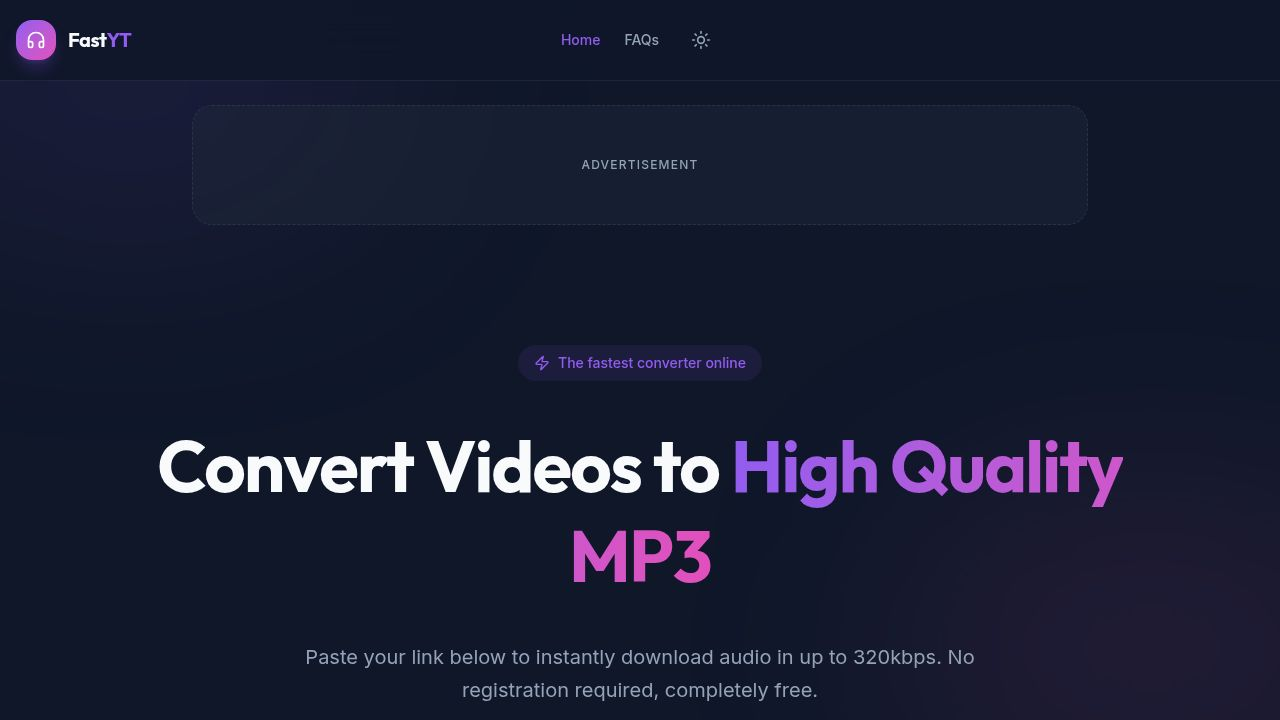
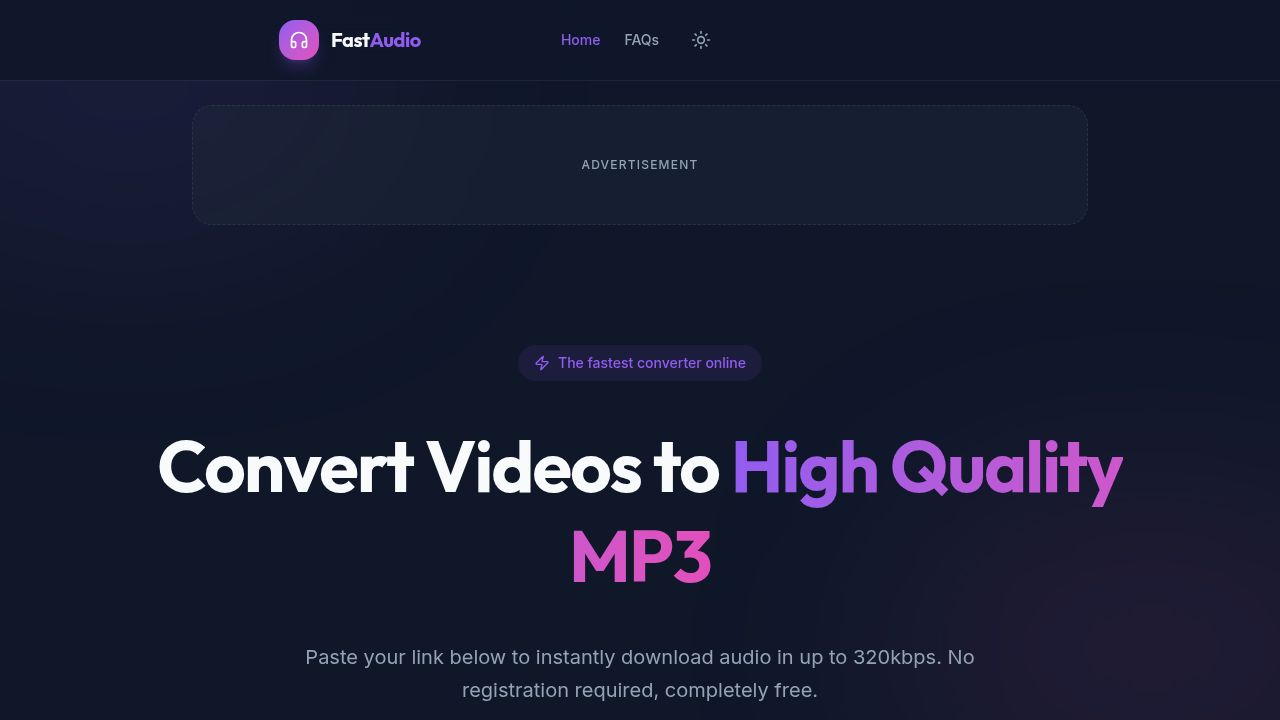
Update website branding and content to reflect the new audio focus
Replaces all instances of "FastYT" with "FastAudio" across UI elements, page titles, meta descriptions, keywords, and article content to align with the new branding and service focus.

Replit-Commit-Author: Agent
Replit-Commit-Session-Id: 02a84560-6882-444d-8c85-bd9621cf1c08
Replit-Commit-Checkpoint-Type: full_checkpoint
Replit-Commit-Event-Id: 32cc1984-b7d3-4cb3-a907-91f8530e6ba8
Replit-Commit-Screenshot-Url: https://storage.googleapis.com/screenshot-production-us-central1/3bdd60ed-d1cf-41c7-81cc-fcb551e5fe91/02a84560-6882-444d-8c85-bd9621cf1c08/msJ4D0S
Replit-Helium-Checkpoint-Created: true

Changed region(s): [[0.2188, 0.0306, 0.3438, 0.0917], [0.0, 0.0306, 0.125, 0.0917]]

diff --git a/artifacts/yt-mp3/src/pages/terms.tsx b/artifacts/yt-mp3/src/pages/terms.tsx
@@ -3,14 +3,14 @@ import { Layout } from "@/components/layout";
 
 export default function Terms() {
   useEffect(() => {
-    document.title = "Terms of Service - FastYT Converter";
+    document.title = "Terms of Service - FastAudio Converter";
     const setMeta = (name: string, content: string, prop = false) => {
       const attr = prop ? "property" : "name";
       let el = document.querySelector(`meta[${attr}="${name}"]`);
       if (!el) { el = document.createElement("meta"); el.setAttribute(attr, name); document.head.appendChild(el); }
       el.setAttribute("content", content);
     };
-    setMeta("description", "FastYT Converter Terms of Service. Understand the rules, copyright policy, and acceptable use of our media conversion tool.");
+    setMeta("description", "FastAudio Converter Terms of Service. Understand the rules, copyright policy, and acceptable use of our media conversion tool.");
     setMeta("keywords", "terms of service, terms and conditions, legal terms, user agreement");
     let canonical = document.querySelector('link[rel="canonical"]');
     if (!canonical) { canonical = document.createElement("link"); canonical.setAttribute("rel", "canonical"); document.head.appendChild(canonical); }
@@ -26,17 +26,17 @@ export default function Terms() {
 
         <h3>1. Acceptance of Terms</h3>
         <p>
-          By accessing and using FastYT, you accept and agree to be bound by the terms and provision of this agreement. If you do not agree to abide by these terms, please do not use this service.
+          By accessing and using FastAudio, you accept and agree to be bound by the terms and provision of this agreement. If you do not agree to abide by these terms, please do not use this service.
         </p>
 
         <h3>2. Description of Service</h3>
         <p>
-          FastYT provides a web-based utility that allows users to convert publicly available YouTube videos into downloadable MP3 audio files. The service is provided "AS IS" and "AS AVAILABLE" for personal, non-commercial use only.
+          FastAudio provides a web-based utility that allows users to convert publicly available videos into downloadable MP3 audio files. The service is provided "AS IS" and "AS AVAILABLE" for personal, non-commercial use only.
         </p>
 
         <h3>3. Copyright and Acceptable Use</h3>
         <p>
-          FastYT respects the intellectual property rights of others. You agree to use the service <strong>only for content that you own, or for which you have explicit permission from the copyright owner to download and convert.</strong>
+          FastAudio respects the intellectual property rights of others. You agree to use the service <strong>only for content that you own, or for which you have explicit permission from the copyright owner to download and convert.</strong>
         </p>
         <p>
           You agree NOT to use the service to download copyrighted material without permission. We do not host, store, or distribute any copyrighted material. The tool simply acts as a conduit to extract audio from URLs provided by the user. If you are a copyright owner and believe your content is being misused, please note that we do not host the files, but you may contact us to block specific URLs from being processed.

diff --git a/artifacts/yt-mp3/src/components/layout.tsx b/artifacts/yt-mp3/src/components/layout.tsx
@@ -59,12 +59,12 @@ export function Layout({ children }: LayoutProps) {
       </div>
       <header className="sticky top-0 z-50 w-full border-b border-border/40 bg-background/80 backdrop-blur-xl" role="banner">
         <div className="container mx-auto px-4 h-20 flex items-center justify-center relative">
-          <Link href="/" className="absolute left-14 flex items-center gap-3 group mt-[0px] pl-[22px] pr-[22px] border-t-[0px] border-r-[0px] border-b-[0px] border-l-[0px] rounded-tl-[0px] rounded-tr-[0px] rounded-br-[0px] rounded-bl-[0px] text-[45px] ml-[201px] mr-[201px] mb-[0px] pt-[5px] pb-[5px] bg-[transparent] font-bold" aria-label="FastYT - Convert Videos to MP3">
+          <Link href="/" className="absolute left-14 flex items-center gap-3 group mt-[0px] pl-[22px] pr-[22px] border-t-[0px] border-r-[0px] border-b-[0px] border-l-[0px] rounded-tl-[0px] rounded-tr-[0px] rounded-br-[0px] rounded-bl-[0px] text-[45px] ml-[201px] mr-[201px] mb-[0px] pt-[5px] pb-[5px] bg-[transparent] font-bold" aria-label="FastAudio - Convert Videos to MP3">
             <div className="w-10 h-10 rounded-xl bg-gradient-to-br from-primary to-accent flex items-center justify-center text-white shadow-lg shadow-primary/25 group-hover:scale-110 transition-transform">
               <Headphones className="w-5 h-5" aria-hidden="true" />
             </div>
             <span className="font-display font-bold text-xl tracking-tight hidden sm:block">
-              Fast<span className="text-primary">YT</span>
+              Fast<span className="text-primary">Audio</span>
             </span>
           </Link>
 
@@ -118,10 +118,10 @@ export function Layout({ children }: LayoutProps) {
             <div className="col-span-1 md:col-span-2">
               <Link href="/" className="flex items-center gap-2 mb-4">
                 <Headphones className="w-6 h-6 text-primary" />
-                <span className="font-display font-bold text-lg">FastYT</span>
+                <span className="font-display font-bold text-lg">FastAudio</span>
               </Link>
               <p className="text-muted-foreground max-w-sm mb-6">
-                The fastest, most reliable online media converter on the web. High quality audio downloads in seconds, completely free.
+                The fastest, most reliable online audio converter on the web. High quality audio downloads in seconds, completely free.
               </p>
               <div className="flex gap-4">
                 <div className="flex items-center gap-2 text-sm text-muted-foreground">
@@ -203,7 +203,7 @@ export function Layout({ children }: LayoutProps) {
 
           <div className="pt-8 border-t border-border/50 flex flex-col md:flex-row justify-between items-center gap-4">
             <p className="text-sm text-muted-foreground">
-              © {new Date().getFullYear()} FastYT Media Converter. All rights reserved.
+              © {new Date().getFullYear()} FastAudio Media Converter. All rights reserved.
             </p>
             <p className="text-xs text-muted-foreground/60 max-w-xl text-center md:text-right">
               This tool is for personal use only. Users must ensure they have rights to download content.

diff --git a/artifacts/yt-mp3/src/pages/faqs.tsx b/artifacts/yt-mp3/src/pages/faqs.tsx
@@ -3,14 +3,14 @@ import { Layout } from "@/components/layout";
 
 export default function FAQs() {
   useEffect(() => {
-    document.title = "FAQs - FastYT Media Converter";
+    document.title = "FAQs - FastAudio Media Converter";
     const setMeta = (name: string, content: string, prop = false) => {
       const attr = prop ? "property" : "name";
       let el = document.querySelector(`meta[${attr}="${name}"]`);
       if (!el) { el = document.createElement("meta"); el.setAttribute(attr, name); document.head.appendChild(el); }
       el.setAttribute("content", content);
     };
-    setMeta("description", "Frequently asked questions about FastYT Media Converter. Get answers to common questions about converting videos to MP3.");
+    setMeta("description", "Frequently asked questions about FastAudio Media Converter. Get answers to common questions about converting videos to MP3.");
     setMeta("keywords", "faqs, faq, frequently asked questions, video converter, mp3 conversion");
     let canonical = document.querySelector('link[rel="canonical"]');
     if (!canonical) { canonical = document.createElement("link"); canonical.setAttribute("rel", "canonical"); document.head.appendChild(canonical); }
@@ -23,12 +23,12 @@ export default function FAQs() {
       a: "Simply paste the video URL into the converter, select your preferred audio quality (128kbps, 192kbps, or 320kbps), and click 'Convert Video'. Your MP3 will be ready to download within seconds."
     },
     {
-      q: "Is FastYT converter free?",
-      a: "Yes! FastYT Media Converter is completely free to use. No registration, no hidden fees, no annoying ads. Just convert your videos to MP3 instantly."
+      q: "Is FastAudio converter free?",
+      a: "Yes! FastAudio Media Converter is completely free to use. No registration, no hidden fees, no annoying ads. Just convert your videos to MP3 instantly."
     },
     {
       q: "What video formats are supported?",
-      a: "We support YouTube links and most popular video platforms. Simply paste the video URL and our tool will automatically detect and convert it to high-quality MP3."
+      a: "We support most popular video platforms. Simply paste the video URL and our tool will automatically detect and convert it to high-quality MP3."
     },
     {
       q: "Do you store my files?",
@@ -44,7 +44,7 @@ export default function FAQs() {
     },
     {
       q: "Can I convert videos from other platforms?",
-      a: "Yes! While we specialize in YouTube, we support most major video platforms including Vimeo, TikTok, Instagram, and more."
+      a: "Yes! We support most major video platforms including Vimeo, TikTok, Instagram, and more."
     },
     {
       q: "Is my download secure?",
@@ -58,7 +58,7 @@ export default function FAQs() {
         <h1 className="text-4xl font-display font-bold mb-8">Frequently Asked Questions</h1>
 
         <p className="text-muted-foreground mb-12">
-          Have questions about FastYT Media Converter? Find answers to the most common questions below.
+          Have questions about FastAudio Media Converter? Find answers to the most common questions below.
         </p>
 
         <div className="space-y-6">

diff --git a/artifacts/yt-mp3/src/pages/articles/mobile-convert.tsx b/artifacts/yt-mp3/src/pages/articles/mobile-convert.tsx
@@ -4,7 +4,7 @@ import { Layout } from "@/components/layout";
 
 export default function MobileConvert() {
   useEffect(() => {
-    document.title = "How to Convert Video to MP3 on Mobile - FastYT Media Converter";
+    document.title = "How to Convert Video to MP3 on Mobile - FastAudio Media Converter";
     const setMeta = (name: string, content: string, prop = false) => {
       const attr = prop ? "property" : "name";
       let el = document.querySelector(`meta[${attr}="${name}"]`);
@@ -29,7 +29,7 @@ export default function MobileConvert() {
         "headline": "How to Convert Video to MP3 on Mobile",
         "description": "Convert video to MP3 on your phone. Easy guide for iOS and Android users to extract audio from videos.",
         "url": "https://fastyt.io/mobile-convert",
-        "author": {"@type": "Organization", "name": "FastYT"},
+        "author": {"@type": "Organization", "name": "FastAudio"},
         "datePublished": "2026-03-23",
         "keywords": "mobile conversion, convert on phone, iphone, android"
       });
@@ -58,7 +58,7 @@ export default function MobileConvert() {
         <ol>
           <li>Open the <strong>Safari browser</strong> on your iPhone or iPad.</li>
           <li>Navigate to the video you want to convert and <strong>copy the URL</strong> from the address bar.</li>
-          <li>Open <strong>FastYT Media Converter</strong> in a new tab.</li>
+          <li>Open <strong>FastAudio Media Converter</strong> in a new tab.</li>
           <li><strong>Paste the URL</strong> into the input box and tap "Start".</li>
           <li>Select your <strong>audio quality</strong> and tap "Convert Video".</li>
           <li>Once conversion is complete, tap <strong>"Download MP3"</strong>. The file will be saved to your Files app or Downloads folder.</li>
@@ -68,7 +68,7 @@ export default function MobileConvert() {
         <ol>
           <li>Open <strong>Chrome</strong> (or your preferred browser) on your Android device.</li>
           <li>Find the video you want to convert and <strong>copy its URL</strong>.</li>
-          <li>Go to <strong>FastYT Media Converter</strong> in your browser.</li>
+          <li>Go to <strong>FastAudio Media Converter</strong> in your browser.</li>
           <li><strong>Paste the URL</strong> and tap "Start".</li>
           <li>Choose your preferred <strong>bitrate</strong> and tap "Convert Video".</li>
           <li>Tap <strong>"Download MP3"</strong> — the file will save to your device's Downloads folder.</li>
@@ -82,7 +82,7 @@ export default function MobileConvert() {
           <li>On iPhone, you may need to use the <strong>Share &gt; Save to Files</strong> option to store the MP3 locally.</li>
         </ul>
 
-        <h2>Why Use FastYT on Mobile?</h2>
+        <h2>Why Use FastAudio on Mobile?</h2>
         <ul>
           <li>No app download required — works directly in your browser.</li>
           <li>Optimised layout for touch screens.</li>

diff --git a/artifacts/yt-mp3/src/pages/about.tsx b/artifacts/yt-mp3/src/pages/about.tsx
@@ -3,15 +3,15 @@ import { Layout } from "@/components/layout";
 
 export default function About() {
   useEffect(() => {
-    document.title = "About Us - FastYT Converter";
+    document.title = "About Us - FastAudio Converter";
     const setMeta = (name: string, content: string, prop = false) => {
       const attr = prop ? "property" : "name";
       let el = document.querySelector(`meta[${attr}="${name}"]`);
       if (!el) { el = document.createElement("meta"); el.setAttribute(attr, name); document.head.appendChild(el); }
       el.setAttribute("content", content);
     };
-    setMeta("description", "Learn about FastYT Media Converter - the fastest and most reliable online tool for converting video to MP3. No registration required, completely free.");
-    setMeta("keywords", "about fastyt, converter tool, about us, company info");
+    setMeta("description", "Learn about FastAudio Media Converter - the fastest and most reliable online tool for converting video to MP3. No registration required, completely free.");
+    setMeta("keywords", "about fastaudio, converter tool, about us, company info");
     let canonical = document.querySelector('link[rel="canonical"]');
     if (!canonical) { canonical = document.createElement("link"); canonical.setAttribute("rel", "canonical"); document.head.appendChild(canonical); }
     canonical.setAttribute("href", "https://fastyt.io/about");
@@ -20,10 +20,10 @@ export default function About() {
   return (
     <Layout>
       <div className="max-w-3xl mx-auto py-16 prose prose-lg dark:prose-invert">
-        <h1 className="text-4xl font-display font-bold mb-8">About FastYT</h1>
+        <h1 className="text-4xl font-display font-bold mb-8">About FastAudio</h1>
         
         <p className="lead text-xl text-muted-foreground mb-8">
-          FastYT was built with a simple goal: to provide the fastest, cleanest, and most reliable way to convert YouTube videos to MP3 audio files.
+          FastAudio was built with a simple goal: to provide the fastest, cleanest, and most reliable way to convert videos to MP3 audio files.
         </p>
         
         <div className="bg-card p-8 rounded-2xl border border-border mb-10 shadow-sm">
@@ -43,7 +43,7 @@ export default function About() {
 
         <h3>How to use the tool</h3>
         <ol>
-          <li>Find the YouTube video you want to convert.</li>
+          <li>Find the video you want to convert.</li>
           <li>Copy the URL from your browser's address bar.</li>
           <li>Paste the URL into the search box on our homepage.</li>
           <li>Select your desired audio quality.</li>

diff --git a/artifacts/yt-mp3/src/pages/disclaimer.tsx b/artifacts/yt-mp3/src/pages/disclaimer.tsx
@@ -3,14 +3,14 @@ import { Layout } from "@/components/layout";
 
 export default function Disclaimer() {
   useEffect(() => {
-    document.title = "Disclaimer - FastYT Media Converter";
+    document.title = "Disclaimer - FastAudio Media Converter";
     const setMeta = (name: string, content: string, prop = false) => {
       const attr = prop ? "property" : "name";
       let el = document.querySelector(`meta[${attr}="${name}"]`);
       if (!el) { el = document.createElement("meta"); el.setAttribute(attr, name); document.head.appendChild(el); }
       el.setAttribute("content", content);
     };
-    setMeta("description", "Disclaimer for FastYT Media Converter. Important legal information about usage rights and limitations.");
+    setMeta("description", "Disclaimer for FastAudio Media Converter. Important legal information about usage rights and limitations.");
     setMeta("keywords", "disclaimer, legal, terms, usage rights");
     let canonical = document.querySelector('link[rel="canonical"]');
     if (!canonical) { canonical = document.createElement("link"); canonical.setAttribute("rel", "canonical"); document.head.appendChild(canonical); }
@@ -40,7 +40,7 @@ export default function Disclaimer() {
 
         <h3>Use at Your Own Risk</h3>
         <p>
-          FastYT Media Converter is provided on an "as-is" basis. We make no warranties regarding the service, and we shall not be liable for any damages arising from the use of this tool. Users assume all responsibility and risk for the use of this service.
+          FastAudio Media Converter is provided on an "as-is" basis. We make no warranties regarding the service, and we shall not be liable for any damages arising from the use of this tool. Users assume all responsibility and risk for the use of this service.
         </p>
 
         <h3>Intellectual Property</h3>
@@ -50,7 +50,7 @@ export default function Disclaimer() {
 
         <h3>Limitation of Liability</h3>
         <p>
-          FastYT is not liable for any direct, indirect, incidental, special, or consequential damages resulting from your use or inability to use our service, or any action taken in reliance upon information contained within our website.
+          FastAudio is not liable for any direct, indirect, incidental, special, or consequential damages resulting from your use or inability to use our service, or any action taken in reliance upon information contained within our website.
         </p>
 
         <h3>Changes to Terms</h3>

diff --git a/artifacts/yt-mp3/src/pages/home.tsx b/artifacts/yt-mp3/src/pages/home.tsx
@@ -17,15 +17,15 @@ export default function Home() {
 
   // Handle URL changes and auto-fetch preview
   useEffect(() => {
-    document.title = "FastYT Media Converter - Convert Video to MP3 Online Free";
+    document.title = "FastAudio Media Converter - Convert Video to MP3 Online Free";
     const setMeta = (name: string, content: string, prop = false) => {
       const attr = prop ? "property" : "name";
       let el = document.querySelector(`meta[${attr}="${name}"]`);
       if (!el) { el = document.createElement("meta"); el.setAttribute(attr, name); document.head.appendChild(el); }
       el.setAttribute("content", content);
     };
-    setMeta("description", "FastYT Media Converter lets you convert video to MP3 online for free. Fast, easy and secure audio conversion tool for personal use.");
-    setMeta("keywords", "convert video to mp3, youtube to mp3, mp3 converter online free, extract audio from video, online audio converter, free mp3 download");
+    setMeta("description", "FastAudio Media Converter lets you convert video to MP3 online for free. Fast, easy and secure audio conversion tool for personal use.");
+    setMeta("keywords", "convert video to mp3, video to mp3, mp3 converter online free, extract audio from video, online audio converter, free mp3 download");
     setMeta("robots", "index, follow");
     let canonical = document.querySelector('link[rel="canonical"]');
     if (!canonical) { canonical = document.createElement("link"); canonical.setAttribute("rel", "canonical"); document.head.appendChild(canonical); }
@@ -40,7 +40,7 @@ export default function Home() {
       schemaScript.textContent = JSON.stringify({
         "@context": "https://schema.org",
         "@type": "SoftwareApplication",
-        "name": "FastYT Media Converter",
+        "name": "FastAudio Media Converter",
         "description": "Free online tool to convert video to MP3 with high quality audio. No registration required.",
         "url": "https://fastyt.io",
         "applicationCategory": "MultimediaApplication",

diff --git a/artifacts/yt-mp3/src/pages/privacy.tsx b/artifacts/yt-mp3/src/pages/privacy.tsx
@@ -3,14 +3,14 @@ import { Layout } from "@/components/layout";
 
 export default function Privacy() {
   useEffect(() => {
-    document.title = "Privacy Policy - FastYT Converter";
+    document.title = "Privacy Policy - FastAudio Converter";
     const setMeta = (name: string, content: string, prop = false) => {
       const attr = prop ? "property" : "name";
       let el = document.querySelector(`meta[${attr}="${name}"]`);
       if (!el) { el = document.createElement("meta"); el.setAttribute(attr, name); document.head.appendChild(el); }
       el.setAttribute("content", content);
     };
-    setMeta("description", "Read FastYT Converter's privacy policy. We protect your data and don't require registration. Learn how we handle your information.");
+    setMeta("description", "Read FastAudio Converter's privacy policy. We protect your data and don't require registration. Learn how we handle your information.");
     setMeta("keywords", "privacy policy, data protection, user privacy");
     let canonical = document.querySelector('link[rel="canonical"]');
     if (!canonical) { canonical = document.createElement("link"); canonical.setAttribute("rel", "canonical"); document.head.appendChild(canonical); }
@@ -25,7 +25,7 @@ export default function Privacy() {
         <p className="text-muted-foreground mb-8">Last updated: {new Date().toLocaleDateString('en-US', { month: 'long', year: 'numeric' })}</p>
 
         <p>
-          At FastYT, accessible from our website, one of our main priorities is the privacy of our visitors. This Privacy Policy document contains types of information that is collected and recorded by FastYT and how we use it.
+          At FastAudio, accessible from our website, one of our main priorities is the privacy of our visitors. This Privacy Policy document contains types of information that is collected and recorded by FastAudio and how we use it.
         </p>
 
         <h3>1. Information We Collect</h3>

diff --git a/artifacts/yt-mp3/src/pages/contact.tsx b/artifacts/yt-mp3/src/pages/contact.tsx
@@ -5,7 +5,7 @@ import { Mail, MessageSquare } from "lucide-react";
 
 export default function Contact() {
   useEffect(() => {
-    document.title = "Contact Us - FastYT Media Converter";
+    document.title = "Contact Us - FastAudio Media Converter";
     const setMeta = (name: string, content: string, prop = false) => {
       const attr = prop ? "property" : "name";
       const selector = `meta[${attr}="${name}"]`;
@@ -17,7 +17,7 @@ export default function Contact() {
       }
       el.setAttribute("content", content);
     };
-    setMeta("description", "Contact FastYT Media Converter support team. Get help, report issues, or send feedback about our video to MP3 conversion tool.");
+    setMeta("description", "Contact FastAudio Media Converter support team. Get help, report issues, or send feedback about our video to MP3 conversion tool.");
     setMeta("keywords", "contact us, support, customer service, feedback, help");
     let canonical = document.querySelector('link[rel="canonical"]') as HTMLLinkElement | null;
     if (!canonical) {
@@ -44,7 +44,7 @@ export default function Contact() {
           {
             "@type": "Question",
             "name": "Is this tool free to use?",
-            "acceptedAnswer": {"@type": "Answer", "text": "Yes. FastYT Media Converter is completely free for personal use."}
+            "acceptedAnswer": {"@type": "Answer", "text": "Yes. FastAudio Media Converter is completely free for personal use."}
           },
           {
             "@type": "Question",

diff --git a/artifacts/yt-mp3/src/pages/articles/extract-audio.tsx b/artifacts/yt-mp3/src/pages/articles/extract-audio.tsx
@@ -4,7 +4,7 @@ import { Layout } from "@/components/layout";
 
 export default function ExtractAudio() {
   useEffect(() => {
-    document.title = "How to Extract Audio from a Video - FastYT Media Converter";
+    document.title = "How to Extract Audio from a Video - FastAudio Media Converter";
     const setMeta = (name: string, content: string, prop = false) => {
       const attr = prop ? "property" : "name";
       let el = document.querySelector(`meta[${attr}="${name}"]`);
@@ -29,7 +29,7 @@ export default function ExtractAudio() {
         "headline": "How to Extract Audio from a Video",
         "description": "Learn how to extract audio from video files easily. Complete guide to isolating sound tracks and saving as MP3.",
         "url": "https://fastyt.io/extract-audio",
-        "author": {"@type": "Organization", "name": "FastYT"},
+        "author": {"@type": "Organization", "name": "FastAudio"},
         "datePublished": "2026-03-23",
         "keywords": "extract audio, audio extraction, separate audio from video"
       });
@@ -60,7 +60,7 @@ export default function ExtractAudio() {
           <li><strong>Sound design</strong> — Source ambient sounds and effects from video content you own or have rights to.</li>
         </ul>
 
-        <h2>How to Extract Audio Using FastYT</h2>
+        <h2>How to Extract Audio Using FastAudio</h2>
         <p>
           Our online tool makes audio extraction straightforward, with no technical knowledge required.
         </p>

diff --git a/artifacts/yt-mp3/src/pages/articles/convert-without-software.tsx b/artifacts/yt-mp3/src/pages/articles/convert-without-software.tsx
@@ -4,7 +4,7 @@ import { Layout } from "@/components/layout";
 
 export default function ConvertWithoutSoftware() {
   useEffect(() => {
-    document.title = "Convert Video to MP3 Without Software - FastYT Media Converter";
+    document.title = "Convert Video to MP3 Without Software - FastAudio Media Converter";
     const setMeta = (name: string, content: string, prop = false) => {
       const attr = prop ? "property" : "name";
       let el = document.querySelector(`meta[${attr}="${name}"]`);
@@ -29,7 +29,7 @@ export default function ConvertWithoutSoftware() {
         "headline": "Convert Video to MP3 Without Software",
         "description": "Convert video to MP3 without installing any software. Discover the benefits of browser-based audio conversion.",
         "url": "https://fastyt.io/convert-without-software",
-        "author": {"@type": "Organization", "name": "FastYT"},
+        "author": {"@type": "Organization", "name": "FastAudio"},
         "datePublished": "2026-03-23",
         "keywords": "convert without software, online converter, browser-based"
       });

diff --git a/artifacts/yt-mp3/src/pages/articles/convert-video-to-mp3.tsx b/artifacts/yt-mp3/src/pages/articles/convert-video-to-mp3.tsx
@@ -4,7 +4,7 @@ import { Layout } from "@/components/layout";
 
 export default function ConvertVideoToMp3() {
   useEffect(() => {
-    document.title = "How to Convert Video to MP3 Online - FastYT Media Converter";
+    document.title = "How to Convert Video to MP3 Online - FastAudio Media Converter";
     const setMeta = (name: string, content: string, prop = false) => {
       const attr = prop ? "property" : "name";
       let el = document.querySelector(`meta[${attr}="${name}"]`);
@@ -29,7 +29,7 @@ export default function ConvertVideoToMp3() {
         "headline": "How to Convert Video to MP3 Online",
         "description": "Learn how to convert video to MP3 online for free. Step-by-step guide for extracting high-quality audio from videos without software.",
         "url": "https://fastyt.io/convert-video-to-mp3",
-        "author": {"@type": "Organization", "name": "FastYT"},
+        "author": {"@type": "Organization", "name": "FastAudio"},
         "datePublished": "2026-03-23",
         "keywords": "convert video to mp3, how to convert, online conversion"
       });
